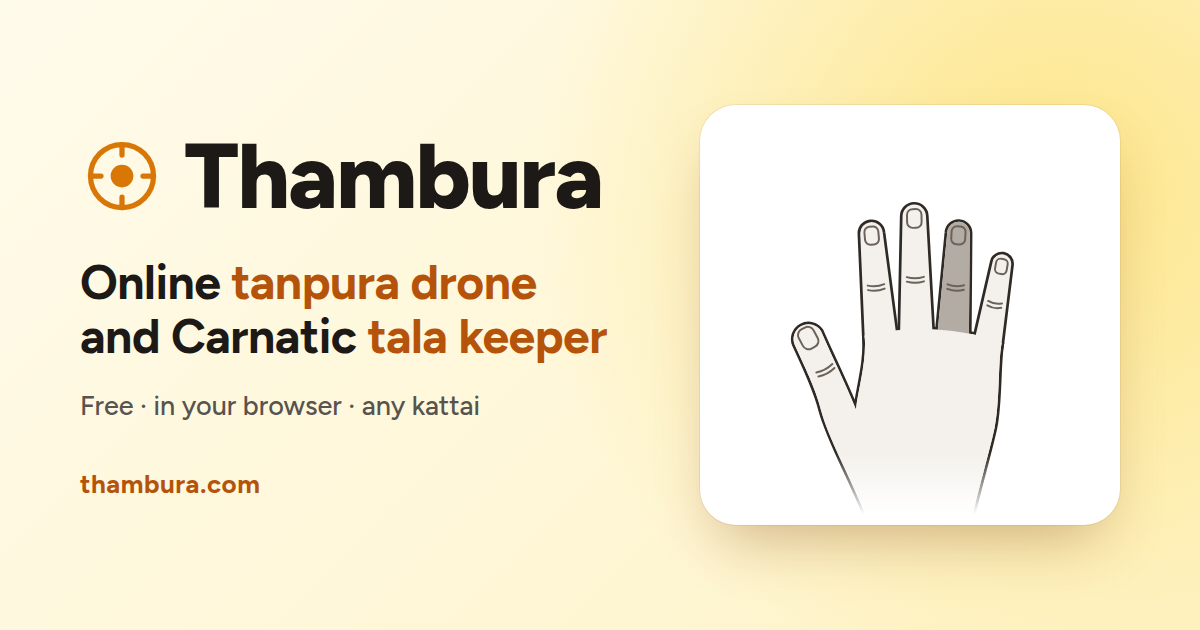
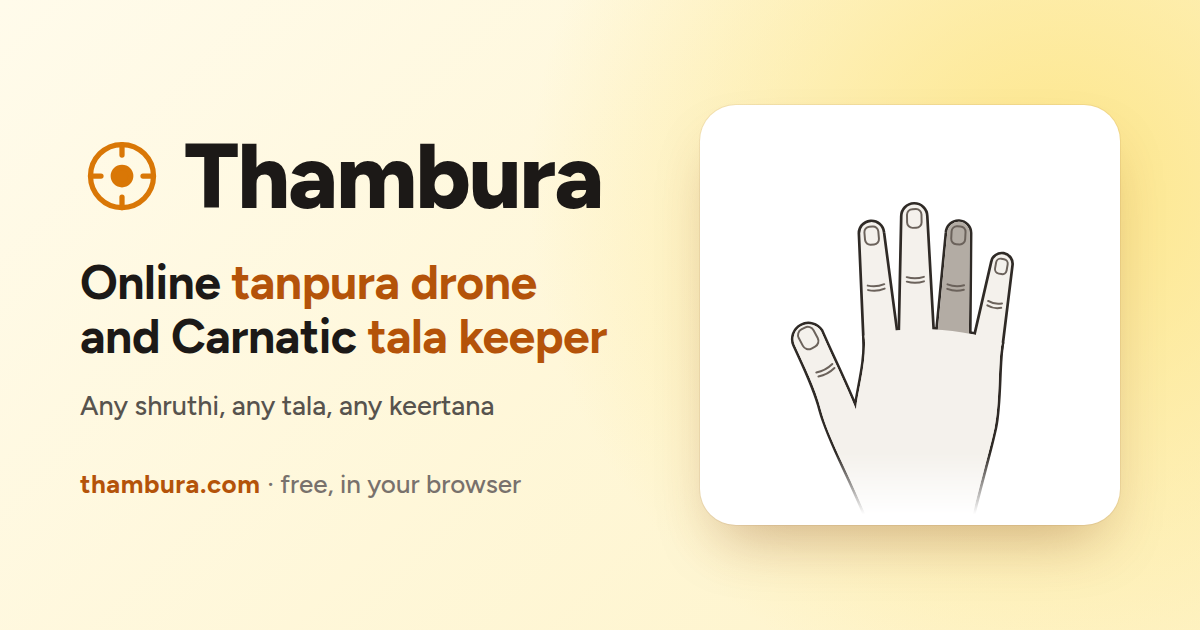
Preview image: any shruthi, any tala, any keertana

Changed region(s): [[0.0617, 0.6333, 0.4317, 0.6635], [0.2158, 0.754, 0.4317, 0.7841]]

diff --git a/design/og.html b/design/og.html
@@ -34,6 +34,7 @@ Right hand set, read from web/static, so it follows them when they change.
   h1 em { font-style: normal; color: #b45309; white-space: nowrap; }
   p { margin: 26px 0 0; font-size: 27px; font-weight: 500; color: #57534e; }
   .url { margin-top: 46px; font-size: 26px; font-weight: 700; color: #b45309; letter-spacing: 0.02em; }
+  .url span { font-weight: 500; color: #78716c; letter-spacing: 0; }
   .card {
     width: 420px;
     height: 420px;
@@ -51,8 +52,8 @@ Right hand set, read from web/static, so it follows them when they change.
   <div>
     <div class="brand"><img src="../web/static/favicon.svg" alt=""><span>Thambura</span></div>
     <h1>Online <em>tanpura drone</em><br>and Carnatic <em>tala keeper</em></h1>
-    <p>Free · in your browser · any kattai</p>
-    <div class="url">thambura.com</div>
+    <p>Any shruthi, any tala, any keertana</p>
+    <div class="url">thambura.com <span>· free, in your browser</span></div>
   </div>
   <div class="card"><img src="../web/static/Resources/Images/RightHand/two.svg" alt=""></div>
 </body>
